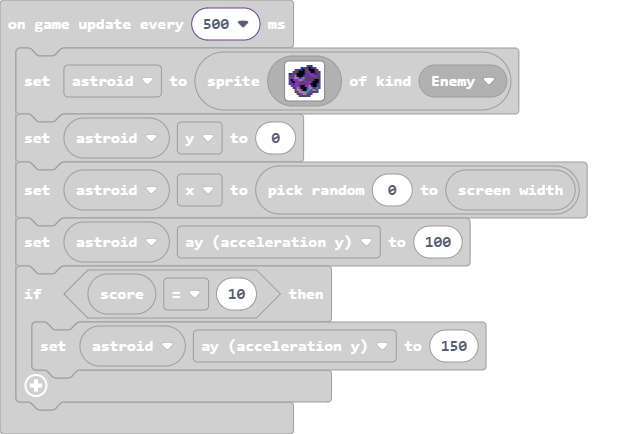
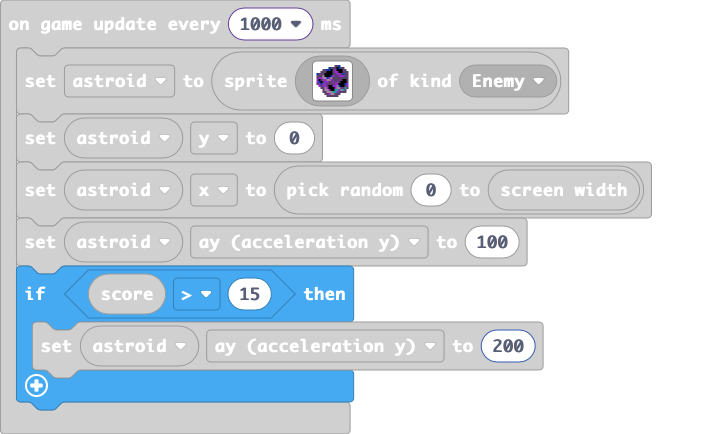
Update main.blocks, main.ts

diff --git a/main.ts b/main.ts
@@ -55,7 +55,7 @@ spaceship = sprites.create(img`
 controller.moveSprite(spaceship, 100, 100)
 spaceship.y = scene.screenHeight() - 10
 spaceship.setFlag(SpriteFlag.StayInScreen, true)
-game.onUpdateInterval(500, function () {
+game.onUpdateInterval(1000, function () {
     astroid = sprites.create(img`
         . . . . . . . . . c c 8 . . . . 
         . . . . . . 8 c c c f 8 c c . . 
@@ -77,7 +77,7 @@ game.onUpdateInterval(500, function () {
     astroid.y = 0
     astroid.x = randint(0, scene.screenWidth())
     astroid.ay = 100
-    if (info.score() == 10) {
-        astroid.ay = 150
+    if (info.score() > 15) {
+        astroid.ay = 200
     }
 })
